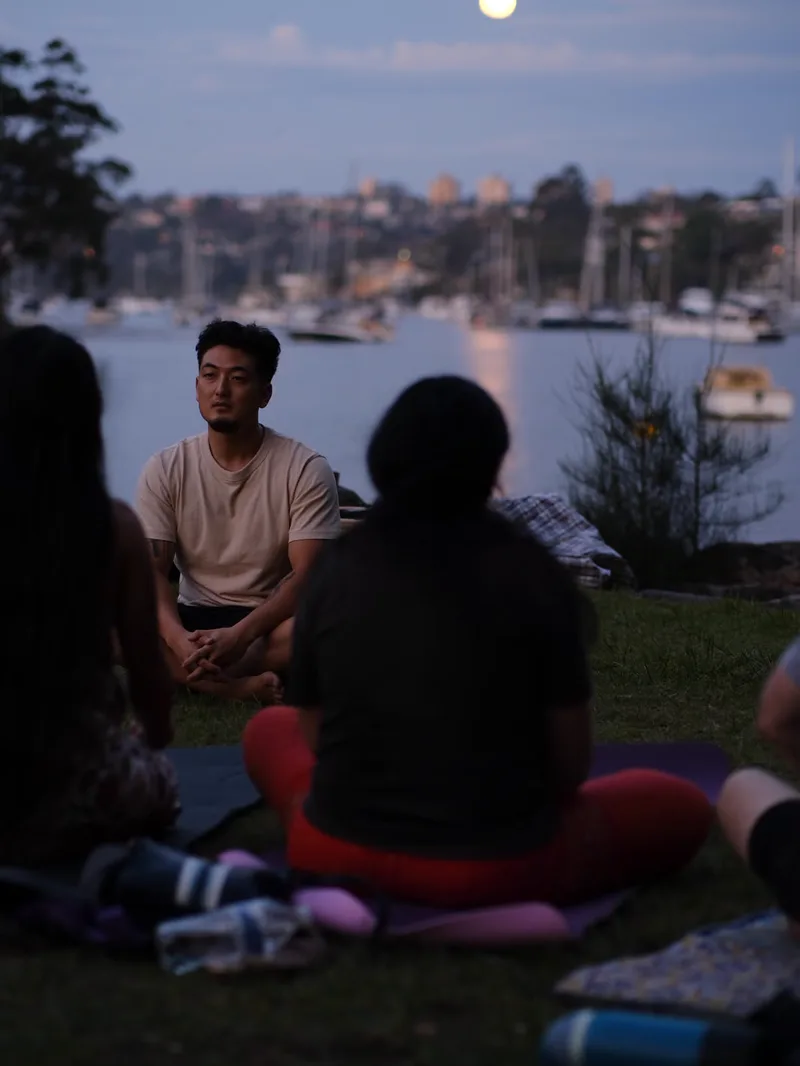
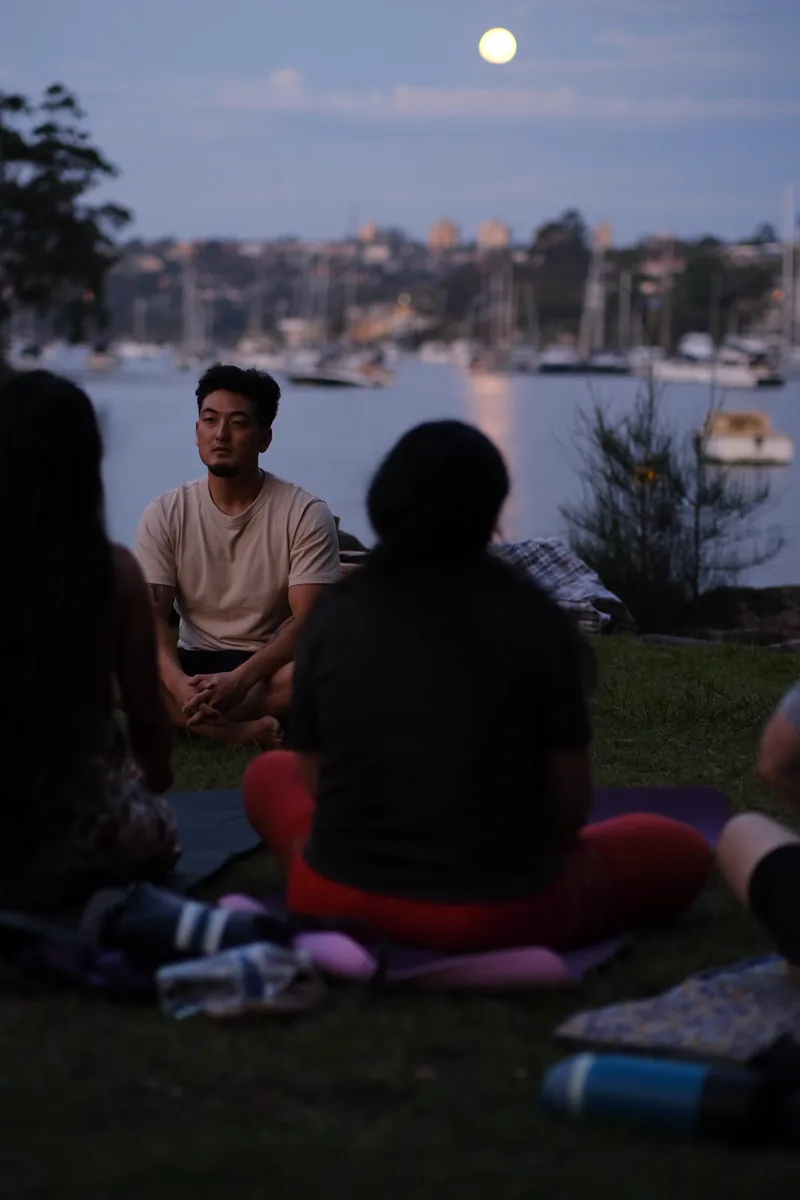
rts-coaching: session photos as a bento grid, five tiles incl. the hands-to-chest frame

diff --git a/src/data/workshop.ts b/src/data/workshop.ts
@@ -135,11 +135,13 @@ export const ROOM = {
     ],
   },
   /* the two photographs beside the steps (Dion, 11 Nov): the hand-on-chest session, and Harrison seated on the mat */
+  /* bento: one tile each, laid out by .ws-bento in rts-coaching.astro (a–e) */
   photos: [
-    { slug: 'coaching-chest-v1', w: 960, alt: 'Harrison kneeling beside a client in seiza, one hand resting on the client’s chest while the client sits with eyes closed', pos: '50% 40%' },
-    { slug: 'session-dojo-v1', w: 800, alt: 'Harrison and another man face to face in silhouette against a glowing orange shoji screen', pos: '50% 50%' },
-    { slug: 'session-moon-circle-v1', w: 800, alt: 'Harrison sitting cross-legged on the grass at dusk with a small group, a full moon over the harbour behind him', pos: '50% 30%' },
-    { slug: 'session-moon-backs-v1', w: 800, alt: 'Four people seen from behind, looking up at the moon through the clouds at dusk', pos: '50% 50%' },
+    { cell: 'a', slug: 'coaching-chest-v1', w: 960, alt: 'Harrison kneeling beside a client in seiza, one hand resting on the client’s chest while the client sits with eyes closed', pos: '50% 32%' },
+    { cell: 'b', slug: 'session-dojo-v1', w: 800, alt: 'Harrison and another man face to face in silhouette against a glowing orange shoji screen', pos: '50% 50%' },
+    { cell: 'c', slug: 'session-heart-v1', w: 800, alt: 'Harrison sitting cross-legged on the grass at dusk, eyes closed, both hands held to his chest', pos: '45% 25%' },
+    { cell: 'd', slug: 'session-moon-backs-v1', w: 800, alt: 'Four people seen from behind, looking up at the moon through the clouds at dusk', pos: '50% 50%' },
+    { cell: 'e', slug: 'session-moon-circle-v1', w: 800, alt: 'Harrison sitting cross-legged on the grass at dusk with a small group, a full moon over the harbour behind him', pos: '50% 38%' },
   ],
   facts: ['1:1 with Harrison', `${LENGTH_LINE} · ${DETAILS.price}, full refund if it is not for you`, `In person · ${DETAILS.where}`, 'Bring comfortable clothing and an open mind'],
   note: 'Coaching, not therapy. A practice for one situation that matters to you.',
